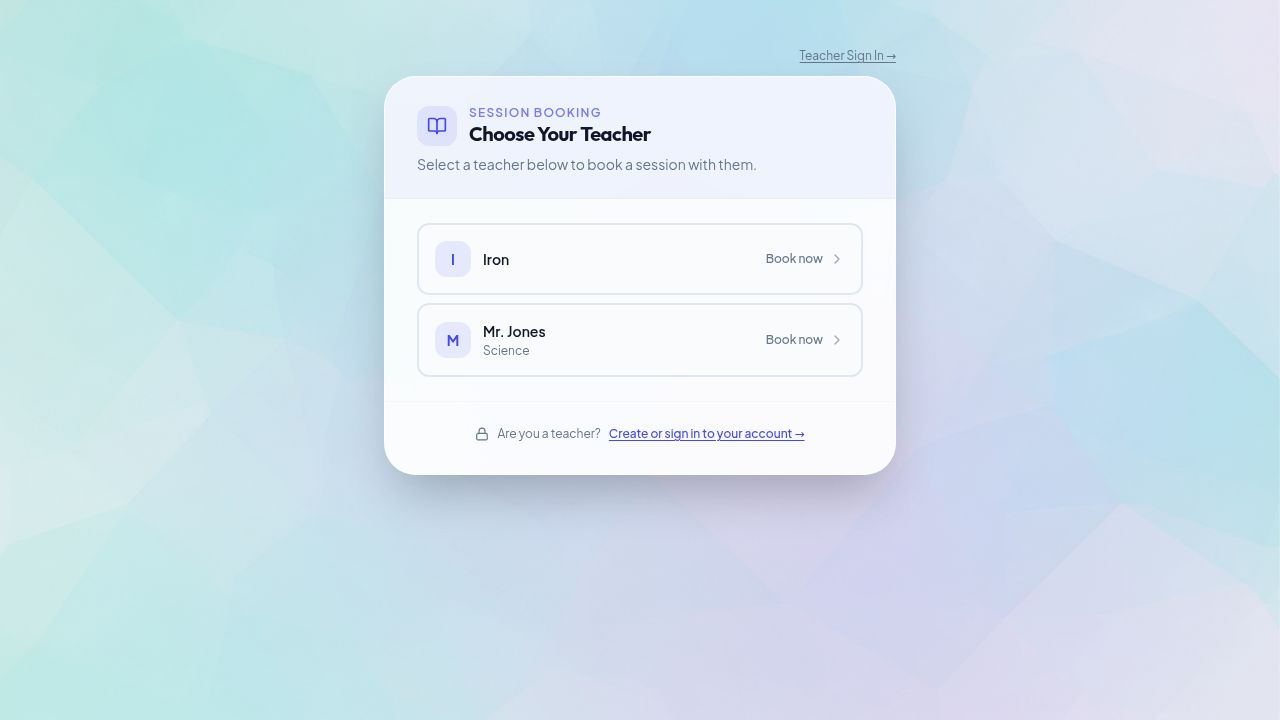
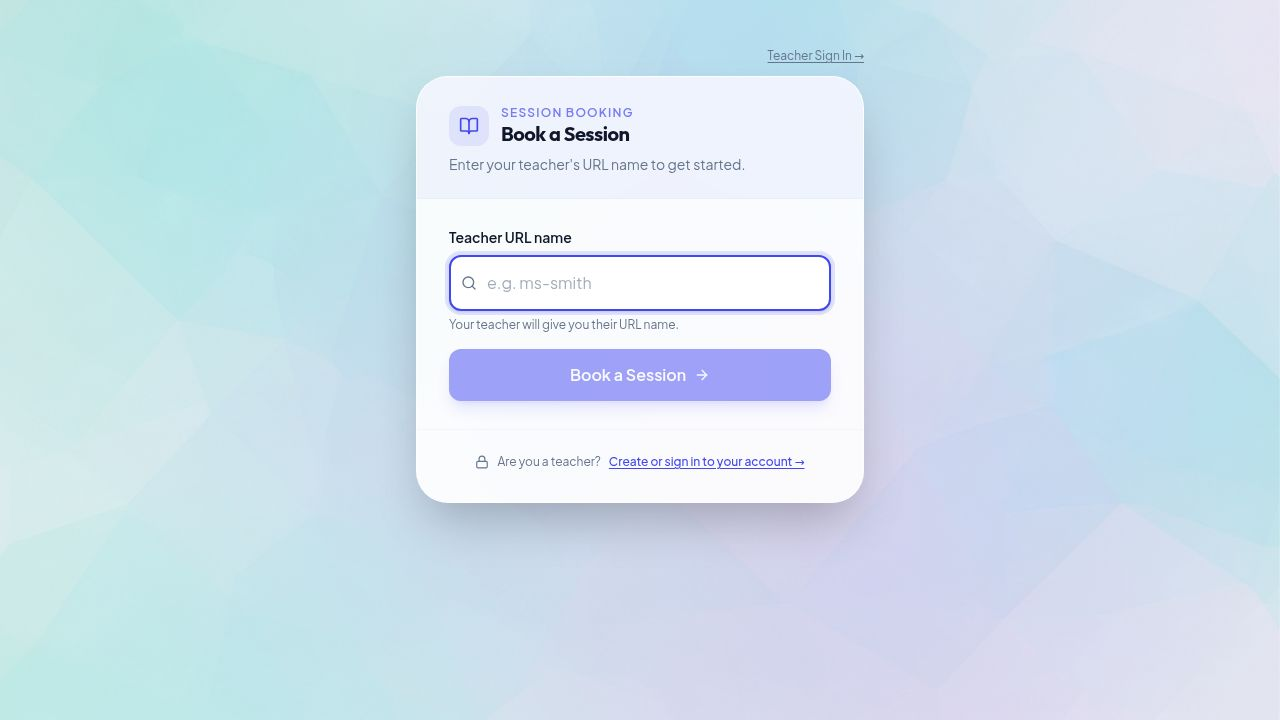
Prevent skipping form pages when clicking next or back rapidly
Introduces a navigation lock mechanism using `useRef` in `Home.tsx` to prevent race conditions where rapid clicks on navigation buttons could cause the user to skip form pages. The lock is managed by setting a ref flag before navigation and resetting it after the page state updates via a `useEffect`.

Replit-Commit-Author: Agent
Replit-Commit-Session-Id: 210bc5ad-339c-4afb-aa16-e7ed48b7ca3e
Replit-Commit-Checkpoint-Type: full_checkpoint
Replit-Commit-Event-Id: bb44b0aa-f035-439c-92f0-cdda07952234
Replit-Commit-Screenshot-Url: https://storage.googleapis.com/screenshot-production-us-central1/f72169c3-ba48-4c9f-ad2c-bbda96059e4d/210bc5ad-339c-4afb-aa16-e7ed48b7ca3e/WNN6cbf
Replit-Helium-Checkpoint-Created: true

Changed region(s): [[0.2812, 0.0611, 0.7188, 0.7028]]

diff --git a/artifacts/time-slot-form/src/pages/Home.tsx b/artifacts/time-slot-form/src/pages/Home.tsx
@@ -1,4 +1,4 @@
-import { useState, useEffect } from "react";
+import { useState, useEffect, useRef } from "react";
 import { motion, AnimatePresence } from "framer-motion";
 import {
   AlertCircle, ArrowRight, ArrowLeft, Check,
@@ -105,6 +105,7 @@ export default function Home() {
   const [page, setPage] = useState(0);
   const [direction, setDirection] = useState(1);
   const [confirmedBooking, setConfirmedBooking] = useState<Booking | null>(null);
+  const navLockedRef = useRef(false);
 
   const [choices, setChoices] = useState<Choice[]>([
     { slotId: null, duration: null, isCustomDuration: false, customDurationStr: "", start: null, isCustomTime: false, customTimeStr: "" },
@@ -192,8 +193,20 @@ export default function Home() {
     return false;
   };
 
-  const goNext = () => { setDirection(1); setPage(p => Math.min(p + 1, TOTAL_PAGES - 1)); };
-  const goBack = () => { setDirection(-1); setPage(p => Math.max(p - 1, 0)); };
+  useEffect(() => { navLockedRef.current = false; }, [page]);
+
+  const goNext = () => {
+    if (navLockedRef.current || !canGoNext()) return;
+    navLockedRef.current = true;
+    setDirection(1);
+    setPage(p => Math.min(p + 1, TOTAL_PAGES - 1));
+  };
+  const goBack = () => {
+    if (navLockedRef.current) return;
+    navLockedRef.current = true;
+    setDirection(-1);
+    setPage(p => Math.max(p - 1, 0));
+  };
 
   const handleSubmit = () => {
     const errs: typeof detailsErrors = {};